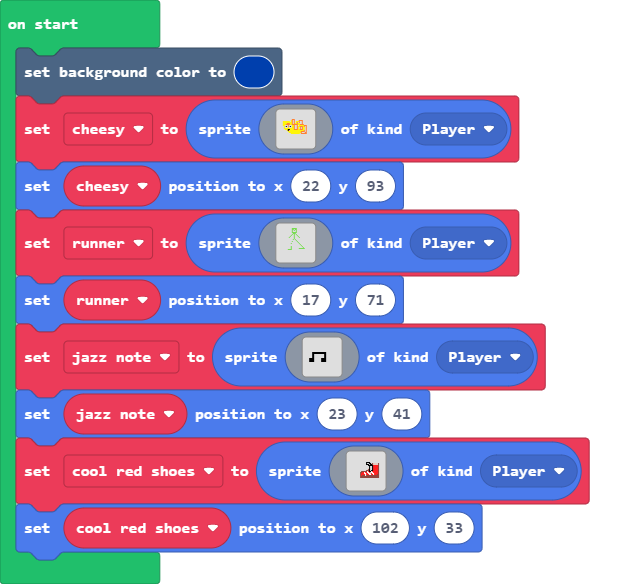
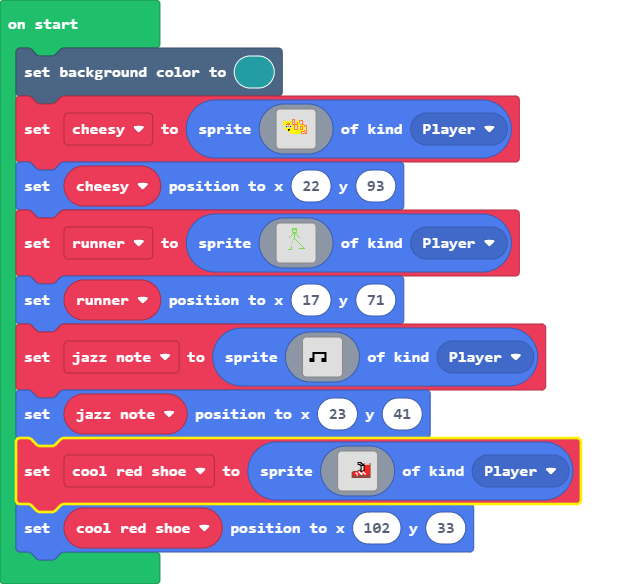
Update main.blocks, main.ts

diff --git a/main.ts b/main.ts
@@ -1,4 +1,4 @@
-scene.setBackgroundColor(8)
+scene.setBackgroundColor(6)
 let cheesy = sprites.create(img`
     ................................
     ................................
@@ -104,7 +104,7 @@ let jazz_note = sprites.create(img`
     ................................
     `, SpriteKind.Player)
 jazz_note.setPosition(23, 41)
-let cool_red_shoes = sprites.create(img`
+let cool_red_shoe = sprites.create(img`
     ................................
     ................................
     ................................
@@ -138,4 +138,4 @@ let cool_red_shoes = sprites.create(img`
     ................................
     ................................
     `, SpriteKind.Player)
-cool_red_shoes.setPosition(102, 33)
+cool_red_shoe.setPosition(102, 33)
